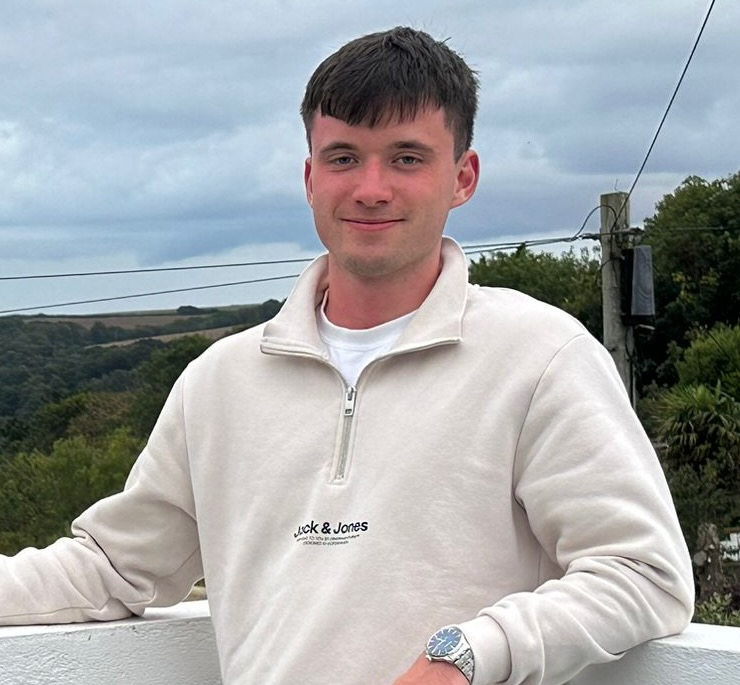
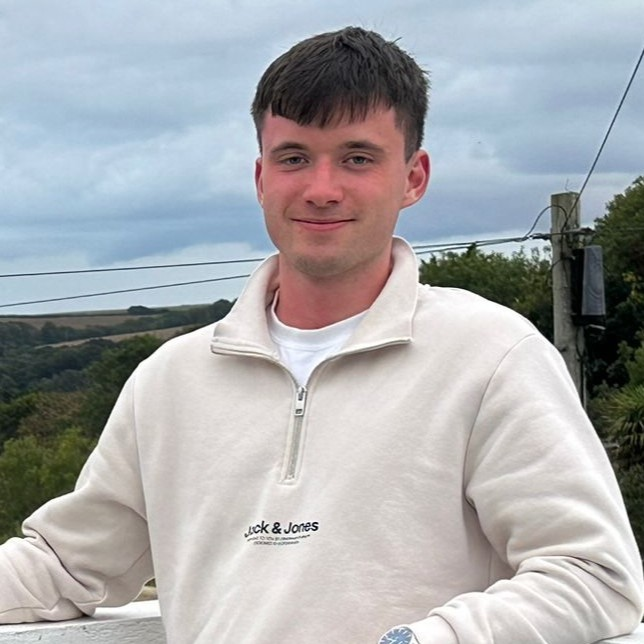
updated committee pictures

diff --git a/convert_json_to_html.js b/convert_json_to_html.js
@@ -26,8 +26,8 @@ function get_teams(){
             "position": "Project Manager"
           },
           {
-            "name": "Matthew Djong",
-            "photoUrl": "./members/matthew-djong.jpg",
+            "name": "Ekta Nair",
+            "photoUrl": "./members/ekta-nair.jpg",
             "position": "Project Manager"
           },
           {
@@ -37,7 +37,7 @@ function get_teams(){
           },
           {
             "name": "Matthew Smith",
-            "photoUrl": "./members/temp-profile.png",
+            "photoUrl": "./members/matt-smith.png",
             "position": "Treasurer"
           },
           {

diff --git a/ehw.html b/ehw.html
@@ -323,7 +323,7 @@
 				<div class="footer-line"></div>
 			</div>
 			<div style="display:flex; justify-content: center;">
-				<p style="color:white;">Hyperloop Manchester © 2024</p>
+				<p style="color:white;">Hyperloop Manchester © 2025</p>
 			</div>
 		</footer>
 	</body>

diff --git a/header_test.html b/header_test.html
@@ -246,7 +246,7 @@
 				<div class="footer-line"></div>
 			</div>
 			<div style="display:flex; justify-content: center;">
-				<p style="color:white;">Hyperloop Manchester © 2024</p>
+				<p style="color:white;">Hyperloop Manchester © 2025</p>
 			</div>
 		</footer>
 	</body>

diff --git a/hyperloop.html b/hyperloop.html
@@ -320,7 +320,7 @@
 				<div class="footer-line"></div>
 			</div>
 			<div style="display:flex; justify-content: center;">
-				<p style="color:white;">Hyperloop Manchester © 2024</p>
+				<p style="color:white;">Hyperloop Manchester © 2025</p>
 			</div>
 		</footer>
 	</body>

diff --git a/index.html b/index.html
@@ -246,7 +246,7 @@
 				<div class="footer-line"></div>
 			</div>
 			<div style="display:flex; justify-content: center;">
-				<p style="color:white;">Hyperloop Manchester © 2024</p>
+				<p style="color:white;">Hyperloop Manchester © 2025</p>
 			</div>
 		</footer>
 	</body>

diff --git a/teams.html b/teams.html
@@ -458,7 +458,7 @@
 				<div class="footer-line"></div>
 			</div>
 			<div style="display:flex; justify-content: center;">
-				<p style="color:white;">Hyperloop Manchester © 2024</p>
+				<p style="color:white;">Hyperloop Manchester © 2025</p>
 			</div>
 		</footer>
 	</body>

diff --git a/partners.html b/partners.html
@@ -316,7 +316,7 @@
 				<div class="footer-line"></div>
 			</div>
 			<div style="display:flex; justify-content: center;">
-				<p style="color:white;">Hyperloop Manchester © 2024</p>
+				<p style="color:white;">Hyperloop Manchester © 2025</p>
 			</div>
 		</footer>
 

diff --git a/research.html b/research.html
@@ -316,7 +316,7 @@
 				<div class="footer-line"></div>
 			</div>
 			<div style="display:flex; justify-content: center;">
-				<p style="color:white;">Hyperloop Manchester © 2024</p>
+				<p style="color:white;">Hyperloop Manchester © 2025</p>
 			</div>
 		</footer>
 
